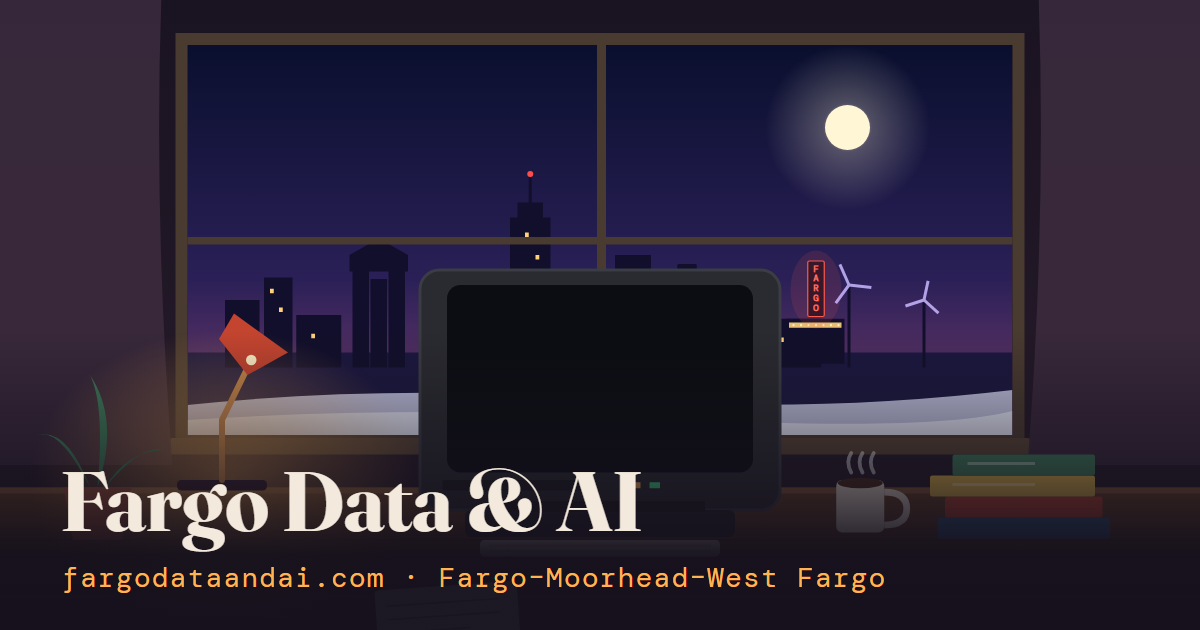
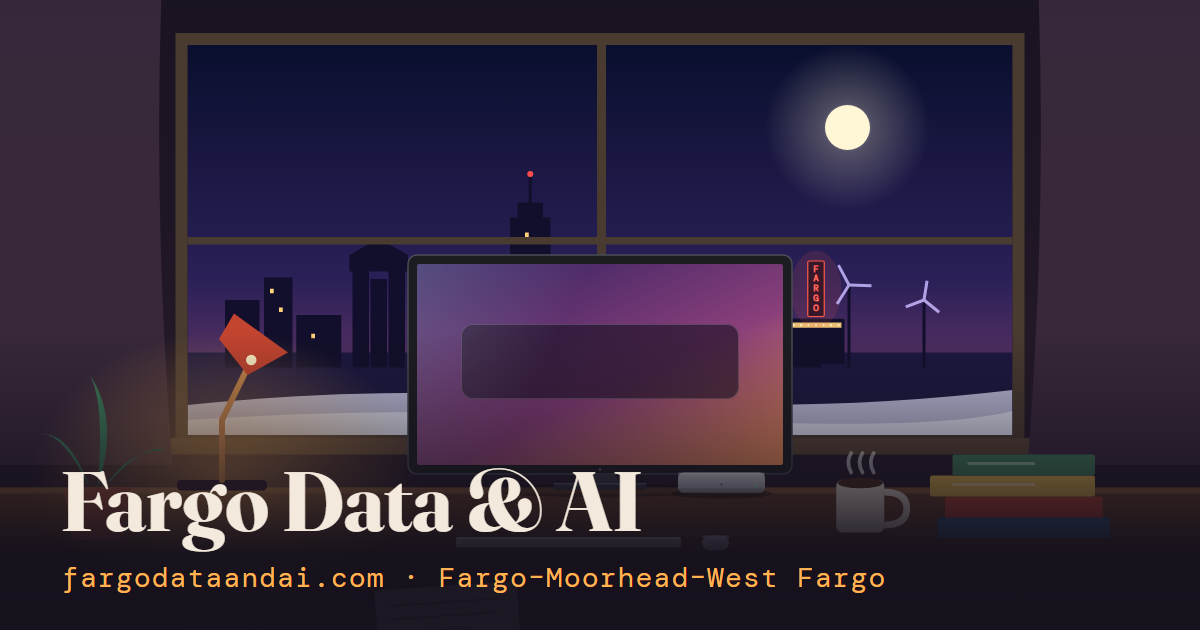
Replace CRT with flat monitor, add Mac mini, keyboard and mouse; refresh OG image

Changed region(s): [[0.3392, 0.3921, 0.6783, 0.7841]]

diff --git a/index.html b/index.html
@@ -48,16 +48,20 @@
   .scene{position:relative;width:100%;max-width:1500px;margin:0 auto;aspect-ratio:16/9;container-type:inline-size}
   .scene svg{position:absolute;inset:0;width:100%;height:100%;display:block}
   #snow{position:absolute;left:15.6%;top:6.7%;width:68.8%;height:57.8%;pointer-events:none}
-  .screen{position:absolute;left:39.4%;top:43.3%;width:21.2%;height:25.6%;padding:1.1cqw 1.3cqw;overflow:hidden;
-          font-size:1.15cqw;line-height:1.5;color:var(--screen-ink);text-shadow:0 0 .5cqw #5b8fe8;
-          background:radial-gradient(ellipse at center,#14306b 0%,#0b1a3a 70%);border-radius:1.2cqw;
-          box-shadow:inset 0 0 3cqw #000a}
-  .screen::after{content:"";position:absolute;inset:0;background:repeating-linear-gradient(#0000 0 2px,#0003 2px 3px);pointer-events:none;animation:flick 6s infinite}
-  @keyframes flick{0%,95%,100%{opacity:1}96%{opacity:.7}97%{opacity:1}98%{opacity:.8}}
-  .screen b{color:#fff;font-weight:500;display:block;font-size:1.5cqw;letter-spacing:.08em}
-  .screen .dim{opacity:.7}
-  .cursor{display:inline-block;width:.6cqw;height:1.1cqw;background:var(--screen-ink);vertical-align:-.15cqw;animation:blink 1s steps(2) infinite}
-  @keyframes blink{50%{opacity:0}}
+  .screen{position:absolute;left:34.75%;top:39.11%;width:30.5%;height:29.78%;overflow:hidden;border-radius:.2cqw;
+          font-family:-apple-system,"Segoe UI",system-ui,sans-serif;color:#fff;line-height:1.35;
+          background:linear-gradient(155deg,#2b2060 0%,#8a3f7a 58%,#ff9a5a 100%);display:flex;flex-direction:column}
+  .screen::after{content:"";position:absolute;inset:0;background:linear-gradient(115deg,#fff3 0%,#fff0 38%);pointer-events:none}
+  .menubar{display:flex;justify-content:space-between;align-items:center;font-size:.72cqw;padding:.35cqw .8cqw;background:#0003;backdrop-filter:blur(4px)}
+  .menubar span:first-child{font-weight:600;letter-spacing:.02em}
+  .desk{flex:1;display:grid;place-items:center;padding:.8cqw}
+  .widget{width:76%;padding:1.1cqw 1.3cqw;border-radius:1.1cqw;background:#150f2299;border:1px solid #ffffff2e;backdrop-filter:blur(10px);box-shadow:0 .6cqw 2cqw #0006}
+  .widget .k{font-size:.72cqw;letter-spacing:.16em;text-transform:uppercase;opacity:.75}
+  .widget .t{font-size:1.35cqw;font-weight:600;margin:.25cqw 0 .2cqw;line-height:1.2}
+  .widget .w{font-size:.9cqw;opacity:.85}
+  .dock{display:flex;justify-content:center;gap:.5cqw;padding:.4cqw 0 .6cqw}
+  .dock i{width:1.5cqw;height:1.5cqw;border-radius:.4cqw;background:#ffffff40;display:block}
+  .dock i:nth-child(1){background:#ff8a3d}.dock i:nth-child(2){background:#5b8fe8}.dock i:nth-child(3){background:#5cffb1}.dock i:nth-child(4){background:#c28bff}
   .steam{animation:steam 3.2s ease-in-out infinite;transform-origin:center bottom;opacity:0}
   .steam:nth-child(2){animation-delay:1.1s}.steam:nth-child(3){animation-delay:2.1s}
   @keyframes steam{0%{opacity:0;transform:translateY(0) scaleX(1)}30%{opacity:.5}100%{opacity:0;transform:translateY(-36px) scaleX(1.6)}}
@@ -138,6 +142,7 @@
         <linearGradient id="sky" x1="0" y1="0" x2="0" y2="1"><stop offset="0" stop-color="#0a0f2e"/><stop offset=".6" stop-color="#2a2057"/><stop offset="1" stop-color="#7a3d6e"/></linearGradient>
         <linearGradient id="wall" x1="0" y1="0" x2="0" y2="1"><stop offset="0" stop-color="#1a1322"/><stop offset="1" stop-color="#2a1d2b"/></linearGradient>
         <linearGradient id="desk" x1="0" y1="0" x2="0" y2="1"><stop offset="0" stop-color="#6a4328"/><stop offset="1" stop-color="#3a2415"/></linearGradient>
+        <linearGradient id="alu" x1="0" y1="0" x2="0" y2="1"><stop offset="0" stop-color="#e3e6ec"/><stop offset=".6" stop-color="#bfc3cc"/><stop offset="1" stop-color="#9ea3ad"/></linearGradient>
         <radialGradient id="lampglow" cx=".5" cy=".5" r=".5"><stop offset="0" stop-color="#ffb454" stop-opacity=".55"/><stop offset="1" stop-color="#ffb454" stop-opacity="0"/></radialGradient>
         <radialGradient id="moon" cx=".5" cy=".5" r=".5"><stop offset="0" stop-color="#fff6d6" stop-opacity=".9"/><stop offset=".3" stop-color="#fff6d6" stop-opacity=".25"/><stop offset="1" stop-color="#fff6d6" stop-opacity="0"/></radialGradient>
         <clipPath id="win"><rect x="250" y="60" width="1100" height="520"/></clipPath>
@@ -201,17 +206,33 @@
       <rect x="0" y="650" width="1600" height="8" fill="#8a5c38"/>
       <g stroke="#0003" stroke-width="2"><path d="M0 720H1600M0 790H1600M0 850H1600"/></g>
 
-      <!-- CRT monitor -->
+      <!-- flat-panel monitor -->
       <g>
-        <rect x="560" y="360" width="480" height="320" rx="26" fill="#2a2b30"/>
-        <rect x="560" y="360" width="480" height="320" rx="26" fill="none" stroke="#3b3d44" stroke-width="4"/>
-        <rect x="596" y="380" width="408" height="250" rx="18" fill="#0b0d12"/>
-        <rect x="590" y="640" width="190" height="14" rx="3" fill="#1a1b1f"/>
-        <rect x="840" y="643" width="14" height="8" fill="#ffb454"/><rect x="866" y="643" width="14" height="8" fill="#45e08a" class="twinkle"/>
-        <rect x="620" y="680" width="360" height="36" rx="8" fill="#23242a"/>
-        <rect x="660" y="668" width="280" height="14" fill="#1a1b1f"/>
-        <rect x="640" y="720" width="320" height="22" rx="6" fill="#d9d2c4"/>
-        <g fill="#b8b0a0"><rect x="652" y="726" width="296" height="3"/><rect x="652" y="733" width="296" height="3"/></g>
+        <ellipse cx="800" cy="654" rx="150" ry="9" fill="#0005"/>
+        <path d="M782 628 L818 628 L826 646 L774 646Z" fill="#3a3c43"/>
+        <rect x="738" y="644" width="124" height="9" rx="4.5" fill="#2e3036"/>
+        <rect x="738" y="644" width="124" height="2" rx="1" fill="#5a5d66"/>
+        <rect x="544" y="340" width="512" height="292" rx="12" fill="#1c1d21"/>
+        <rect x="544" y="340" width="512" height="292" rx="12" fill="none" stroke="#4a4d56" stroke-width="2"/>
+        <rect x="556" y="352" width="488" height="268" rx="3" fill="#0b0d12"/>
+        <circle cx="800" cy="626" r="1.8" fill="#6b6e78"/>
+      </g>
+      <!-- Mac mini -->
+      <g>
+        <ellipse cx="962" cy="658" rx="68" ry="7" fill="#0006"/>
+        <rect x="904" y="630" width="116" height="27" rx="7" fill="url(#alu)"/>
+        <rect x="904" y="630" width="116" height="3" rx="1.5" fill="#fff" opacity=".45"/>
+        <rect x="904" y="651" width="116" height="6" rx="3" fill="#000" opacity=".12"/>
+        <circle cx="962" cy="646" r="1.6" fill="#3f4048" opacity=".55"/>
+        <circle cx="1008" cy="647" r="1.6" fill="#8cffb2" class="twinkle"/>
+      </g>
+      <!-- keyboard + mouse -->
+      <g>
+        <rect x="608" y="716" width="300" height="14" rx="4" fill="#cfd2d9"/>
+        <rect x="608" y="716" width="300" height="2.5" rx="1.2" fill="#fff" opacity=".6"/>
+        <g stroke="#9a9ea8" stroke-width="1.2" opacity=".8"><path d="M616 721h284M616 725h284"/></g>
+        <rect x="936" y="714" width="36" height="20" rx="10" fill="#d9dce2"/>
+        <rect x="936" y="714" width="36" height="3" rx="1.5" fill="#fff" opacity=".6"/>
       </g>
 
       <!-- lamp -->
@@ -248,10 +269,9 @@
     <canvas id="snow"></canvas>
 
     <div class="screen" aria-live="polite">
-      <b>FARGO DATA &amp; AI</b>
-      <div class="dim">community.exe — loading…</div>
-      <div id="screenNext" style="margin-top:.6cqw"></div>
-      <div style="margin-top:.4cqw">&gt; <span class="cursor"></span></div>
+      <div class="menubar"><span>Fargo Data &amp; AI</span><span>Fargo, ND</span></div>
+      <div class="desk"><div class="widget" id="screenNext"></div></div>
+      <div class="dock"><i></i><i></i><i></i><i></i><i></i></div>
     </div>
 
     <div class="hint">scroll ↓</div>
@@ -319,7 +339,7 @@
 
   // monitor
   const sn = document.getElementById('screenNext');
-  sn.innerHTML = up.length ? `<span class="dim">NEXT UP:</span><br>${M.esc(up[0].topic)}<br><span class="dim">${M.esc(up[0].when)}</span>` : `<span class="dim">no events scheduled</span>`;
+  sn.innerHTML = up.length ? `<div class="k">Next meetup</div><div class="t">${M.esc(up[0].topic)}</div><div class="w">${M.esc(up[0].when)}</div>` : `<div class="k">Next meetup</div><div class="t">Nothing scheduled yet</div><div class="w">Join the Slack to hear first</div>`;
 
   document.getElementById('slackBtn').href = M.slackUrl;
 
